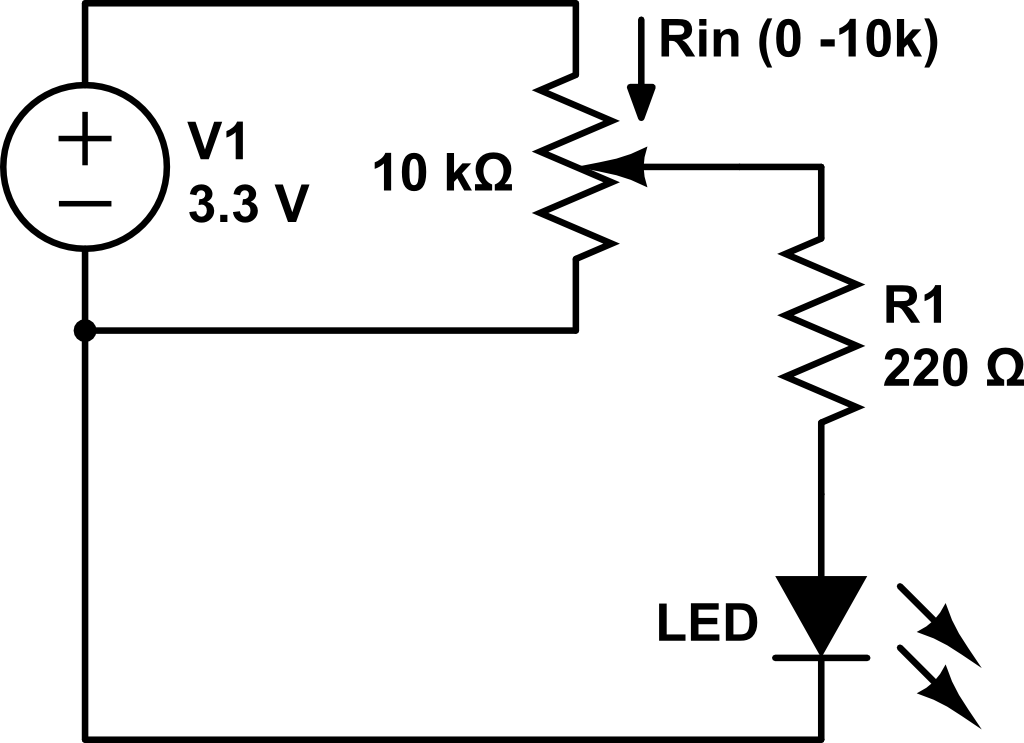
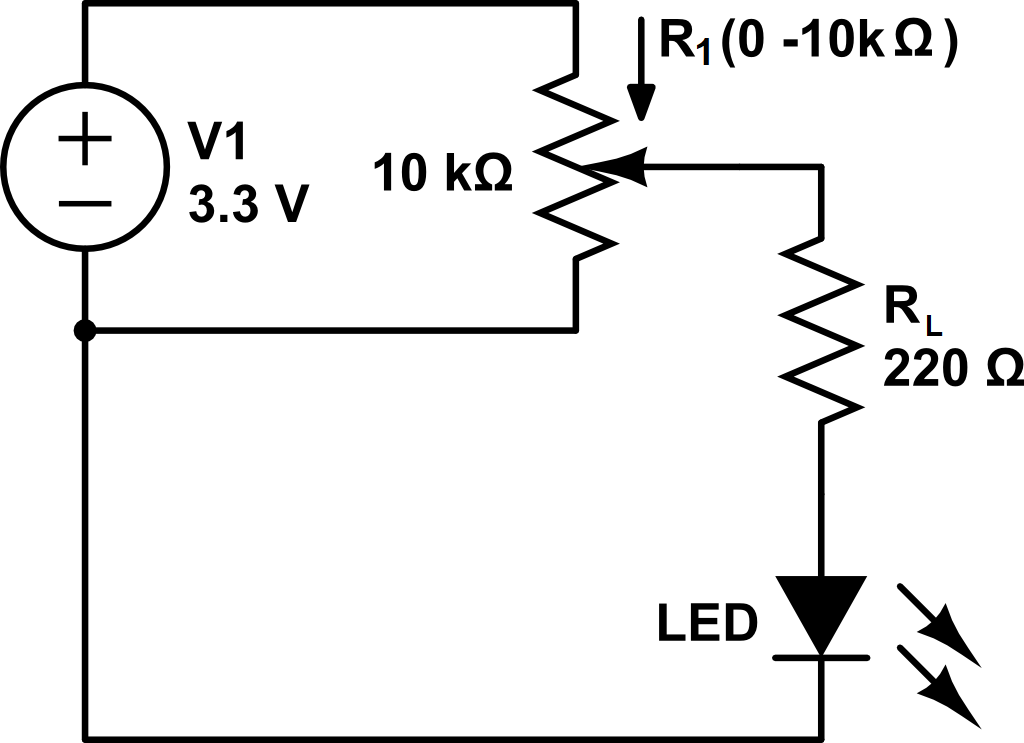
planck lab mostly complete

Changed region(s): [[0.6562, 0.0, 0.9375, 0.0929], [0.9062, 0.3715, 0.9375, 0.4643]]

diff --git a/4LSite/lab5.md b/4LSite/lab5.md
@@ -23,9 +23,7 @@ In the photoelectric effect, electrons can be ejected from a conductor if the in
 :::
 In 1905, Einstein published a seminal paper explaining the *Photoelectric Effect* using the notion of photons, and soon earning him his first Nobel Prize. The Photoelectric Effect is the observation that electrons are ejected from some materials (typically metals) when light is shone on its surface; however, the rate the electrons are ejected from the metal is not entirely proportional to the *intensity*, or the amount of light, as you might expect -- electrons seemed to only respond to light above a certain cut off frequency. This cut-off frequency is the the frequency at which a photon carries energy *equal to or grather than* the binding energy between the electron and the nucleus of the atom. 
 
-This discovery inevitably led to the development of Quantum Theory, and the notion of photons as the quantum mechanical carriers of electromagnetic energy.  Planck's constant gives the proportionality between frequency and energy for photons
-
-the Planck-Einstein Relation:
+This discovery inevitably led to the development of Quantum Theory, and the notion of photons as the quantum mechanical carriers of electromagnetic energy.  Planck's constant gives the proportionality between frequency and energy for photons in the Planck-Einstein Relation:
 :::Equation per
 $$
 E= h \nu
@@ -36,11 +34,14 @@ $$
 
 The determination of Planck's constant was fairly difficult in the early 20th century: it was first laboriously calculated by Planck in an elaborate *black body radiation* experiment, which requires deep knowledge of statistical physics and laboratory technique. Today, luckily, we can measure it quite easily due to advances in solid-state circuitry and the invention of the light-emitting diode (LED)
 
+:::LFigure ledp l
+![](../imgs/Lab5/ledp.jpg)
+####
+A cartoon of electrons subjected to a voltage, forcing them across the gap where they emit a photon
+:::
 LEDs are specially manufactured semiconductor devices which basically accomplish the photoelectric effect in reverse. An LED contains layers of two different semiconductor materials with special energy levels that are "doped". While the theory of semiconductors is far beyond the scope of this course, and is better treated in a solid-state physics class, we will briefly sketch the fundamental process that leads to photon emission below.
 
-:::Figure ledp l
-![](../imgs/Lab5/ledp.jpg)
-:::
+
 
 At small voltages, the boundary of the materials in the LED acts similar to a capacitor: electrons are not able to flow between the layers freely, and accumulate on the surface. Unlike capacitors, however, once the voltage is increased beyond a threshold, electrons gain enough energy to "jump" across the material boundary. After the electron crosses this "gap", it has extra energy that dissipated by producing a photon of a specific frequency. The frequency of the photon is determined by the kinds of materials and chemical treatments the semiconductor is subjected to. 
 
@@ -69,6 +70,18 @@ $$
 :::
 
 
+For the LEDs supplied in the RexQualis kit, the following Table shows the wavelength of the dominant peaks and its error:
+:::Table
+| Color|$\lambda$ (nm) | $\delta \lambda$ (nm)|
+| ------| ------| ------ |
+| Red  | 625| $\pm$ 5 |
+|Yellow|592| $\pm$ 3 |
+|Green |517| $\pm$ 3 |
+|Blue |465| $\pm$ 5 |
+:::
+
+If you do not have these LEDs, it is acceptable to use these values and make a note in your analysis of the results. 
+
 # Using an LED to measure $h$
 
 
@@ -82,12 +95,15 @@ $$
 - 220 $\Omega$ resistor (or 2 100$\Omega$ resistors)
 :::
 
+In this part of the lab, we will set up the basic experiment which will allow us to measure $V_{th}$ for each of the LEDs. Since our power block does not allow us to modulate the voltage through the LED, we will use the 10k trim pot as a **voltage divider**, allowing us to interpolate between a continuous range of voltages using the analogue dial. The trim pot will be connected in series with a **current limiting** resistor to ensure that we do not blow out the LEDs, which can handle a maximum current of $30$ mA.
 
 ::::::Question
 The potentiometer in your kit is a variable-range resistor. The resistance between lead 1 and 3 is always approximately $10$ k$\Omega$. As you turn the dial, the resistance between leads 1 and 2 ranges from approximately $0 \Omega$ and $10$ k$\Omega$
 
-:::Figure vrr m
-![](../imgs/Lab5/vrr.jpg)
+:::Figure vrr xl
+![A variable resistor functions like two resistors in series whose values always adds up to the total resistance. Adjusting the wiper only affects the resistance between leads 1 and 2](../imgs/Lab5/vrr.jpg)
+
+A variable resistor functions like two resistors in series whose values always adds up to the total resistance. Adjusting the wiper only affects the resistance between leads 1 and 2
 :::
 
 In [Ex](#Ex-led), we will use the potentiometer as a voltage divider by connecting 1 to 3.3V, 3 to ground, and 2 to a $220 \Omega$ resistor attached to the load.
@@ -96,9 +112,9 @@ In [Ex](#Ex-led), we will use the potentiometer as a voltage divider by connecti
 ![](../imgs/Lab5/planckexp.png)
 :::
  
- 1. As a function of resistance between 1 and 2, $R_{in}$, the total resistance of the potentiometer $R_{pot}= 10$ k $\Omega$, and $R1 = 220 \Omega$ calculate the voltage across the LED. 
+ 1. As a function of resistance between 1 and 2, $R_{1}$, the total resistance of the potentiometer $R_{tot}= 10$ k $\Omega$, and the current-limiting resistor $R_L= 220 \Omega$ calculate the voltage across the LED. 
 
- 2. What are the maximum and minimum voltages obtainable and what $R_{in}$ correspond to them?
+ 2. What are the maximum and minimum voltages obtainable and what $R_{1}$ corresponds to them?
 
  3. What value of $R_{in}$ would produce 1.5V across the LED?
 
@@ -191,12 +207,12 @@ We will refine the measurement of $h$ by performing the measurement multiple tim
     $$
     \frac{\delta A}{A} = \sqrt{ \Big(\frac{\delta X}{X}\Big)^2 + \Big(\frac{\delta Y}{Y}\Big)^2}
     $$
-2. Make a scatter plot of 
+2. Make a single scatter plot containing 
     - $\bar V_{th}$ v.s. $\nu$, 
     - $(\bar V_{th} + \delta V_{th})$ v.s. $\nu$ 
     - $(\bar V_{th} - \delta V_{th})$ v.s. $\nu$. 
 
-    The later two plots are effectively showing the *error bars* on your first plot.
+    The later two plots are effectively showing the *error bars* on your first plot. You may use google sheets to do this.
 3. From the equation relating $V_{th}$ and $\nu$, what is the significance of the slope of this plot? Calculate the accepted theoretical value
 3. Find the value of the slope for the line of best fit for $\bar V_{th}$ v.s. $\nu$. How does it compare to the accepted value you calculated?  
 4. What value of $h$ does your slope indicate? 
@@ -205,7 +221,11 @@ We will refine the measurement of $h$ by performing the measurement multiple tim
 ::::::
 
 
+:::Question
 
+1. Which source of uncertainty, $\delta V_{th}$ or $\delta \lambda$, do you think influences the *precision* of your results more? Explain.
+2. Which do you think influences your *accuracy* more? Explain.
+:::
 
 
 
@@ -214,8 +234,7 @@ We will refine the measurement of $h$ by performing the measurement multiple tim
 ###  **@fa-hand-o-right@  Instructions :**
  #### **1. Answer all questions clearly, showing your work where appropriate.**
  #### **2. Starting on a seperate page:** 
-  - Write a short summary (~0.5 page, single spaced) describing Faradays Law, how you tested it, and any important observations.
-  - Write a short summary (~0.5 page, single spaced) describing how you can infer the speed of light using the wavelength, how you tested it, and any important observations. 
+  - Write a short summary (~ 1 page, single spaced) describing Planck's constant, how you tested it, and any important observations.
   - In these summaries, be sure to **summarize your results** and **reasons why you believe your data are precise and accurate**. If you do not think your data are accurate, explain why, and how this could be fixed in a future lab.
 
  #### **3. Additional Information:**
